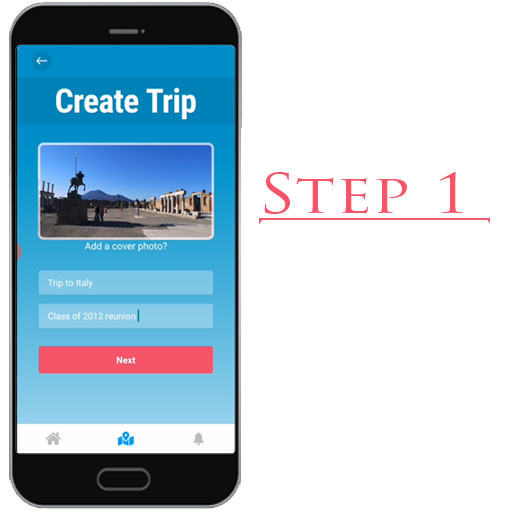
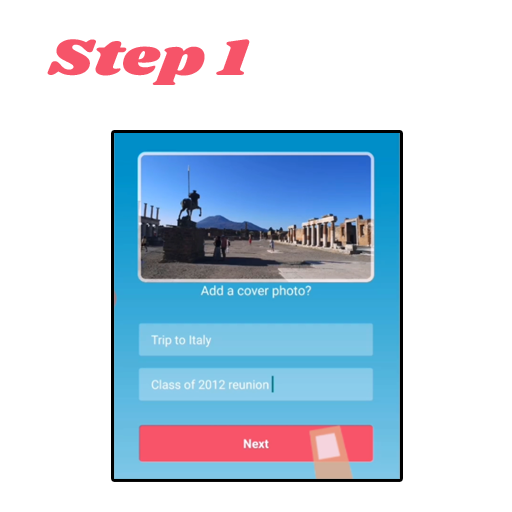
added steps

diff --git a/src/components/sections/Steps.js b/src/components/sections/Steps.js
@@ -1,0 +1,81 @@
+import React, { useState } from 'react';
+import classNames from 'classnames';
+import { SectionProps } from '../../utils/SectionProps';
+import Image from '../elements/Image';
+
+const propTypes = {
+  ...SectionProps.types
+}
+
+const defaultProps = {
+  ...SectionProps.defaults
+}
+
+const Steps = ({
+  className,
+  topOuterDivider,
+  bottomOuterDivider,
+  topDivider,
+  bottomDivider,
+  hasBgColor,
+  invertColor,
+  ...props
+}) => {
+
+
+  const outerClasses = classNames(
+    'hero section center-content',
+    topOuterDivider && 'has-top-divider',
+    bottomOuterDivider && 'has-bottom-divider',
+    hasBgColor && 'has-bg-color',
+    invertColor && 'invert-color',
+    className
+  );
+
+  const innerClasses = classNames(
+    'hero-inner section-inner',
+    topDivider && 'has-top-divider',
+    bottomDivider && 'has-bottom-divider'
+  );
+
+  return (
+    <section
+      {...props}
+      className={outerClasses}
+    >
+      <div className="container">
+        <div className={innerClasses}>
+          <div className="steps-content">
+            {/* TITLE */}
+            <h2 className="mt-0 mb-16 reveal-from-bottom" data-reveal-delay="200">
+              <span className="text-color-primary">Step 1.</span> Create a new trip
+            </h2>
+            <h2 className="mt-0 mb-16 reveal-from-bottom" data-reveal-delay="200">
+              <span className="text-color-primary">Step 2.</span> Choose destination options
+            </h2>
+            <h2 className="mt-0 mb-16 reveal-from-bottom" data-reveal-delay="200">
+              <span className="text-color-primary">Step 3.</span> Set available dates
+            </h2>
+            <h2 className="mt-0 mb-16 reveal-from-bottom" data-reveal-delay="200">
+              <span className="text-color-primary">Step 4.</span> Set budget limits
+            </h2>
+            <h2 className="mt-0 mb-16 reveal-from-bottom" data-reveal-delay="200">
+              <span className="text-color-primary">Step 5.</span> Add friends and let them vote 
+            </h2>
+
+            {/* <div className="container-xs">
+              <p className="m-0 reveal-from-bottom" data-reveal-delay="400">
+                Add a name and description 
+              </p>
+            </div>   */}
+          </div>
+        </div>
+      </div>
+    </section>
+  );
+}
+
+Steps.propTypes = propTypes;
+Steps.defaultProps = defaultProps;
+
+export default Steps;

diff --git a/src/components/sections/FeaturesSplit.js b/src/components/sections/FeaturesSplit.js
@@ -123,14 +123,14 @@ const FeaturesSplit = ({
                 )}
                 data-reveal-container=".split-item">
                 <Image
-                  src={require('./../../assets/images/step3.png')}
+                  src={require('./../../assets/images/step1.png')}
                   alt="Features split 02"
                   width={528}
                   height={396} />
               </div>
             </div>
 
-            <div className="split-item">
+            {/* <div className="split-item">
               <div className="split-item-content center-content-mobile reveal-from-left" data-reveal-container=".split-item">
                 <div className="text-xxs text-color-primary fw-600 tt-u mb-8">
                   Lightning fast workflow
@@ -154,7 +154,7 @@ const FeaturesSplit = ({
                   width={528}
                   height={396} />
               </div>
-            </div>
+            </div> */}
 
           </div>
         </div>

diff --git a/src/views/Home.js b/src/views/Home.js
@@ -4,6 +4,7 @@ import Hero from '../components/sections/Hero';
 //import FeaturesTiles from '../components/sections/FeaturesTiles';
 import FeaturesSplit from '../components/sections/FeaturesSplit';
 // import Testimonial from '../components/sections/Testimonial';
+import Steps from '../components/sections/Steps';
 import Cta from '../components/sections/Cta';
 
 const Home = () => {
@@ -14,6 +15,7 @@ const Home = () => {
       {/* <FeaturesTiles /> */}
       <FeaturesSplit invertMobile topDivider imageFill className="illustration-section-02" />
       {/* <Testimonial topDivider /> */}
+      <Steps />
       <Cta split />
     </>
   );

diff --git a/src/assets/scss/core/sections/_hero.scss b/src/assets/scss/core/sections/_hero.scss
@@ -19,6 +19,10 @@
 		box-shadow: 1px 1px 25px rgba(51, 51, 51, 0.404);
 	}
 
+	.steps-content {
+		text-align: left;
+	}
+
 }
 
 .hero-inner {
